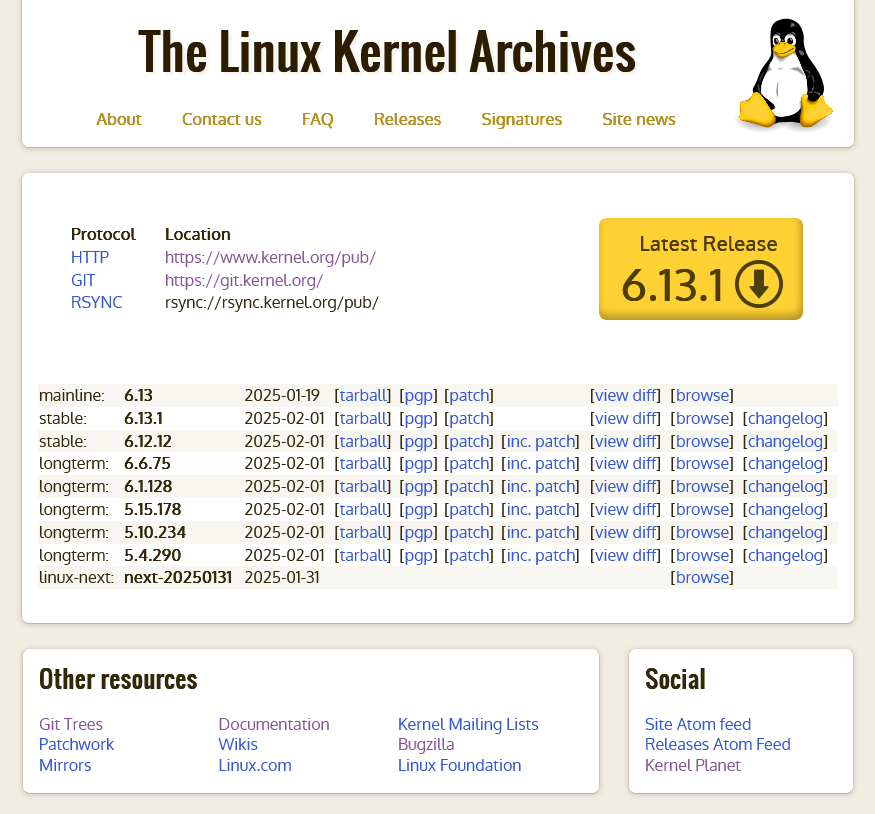
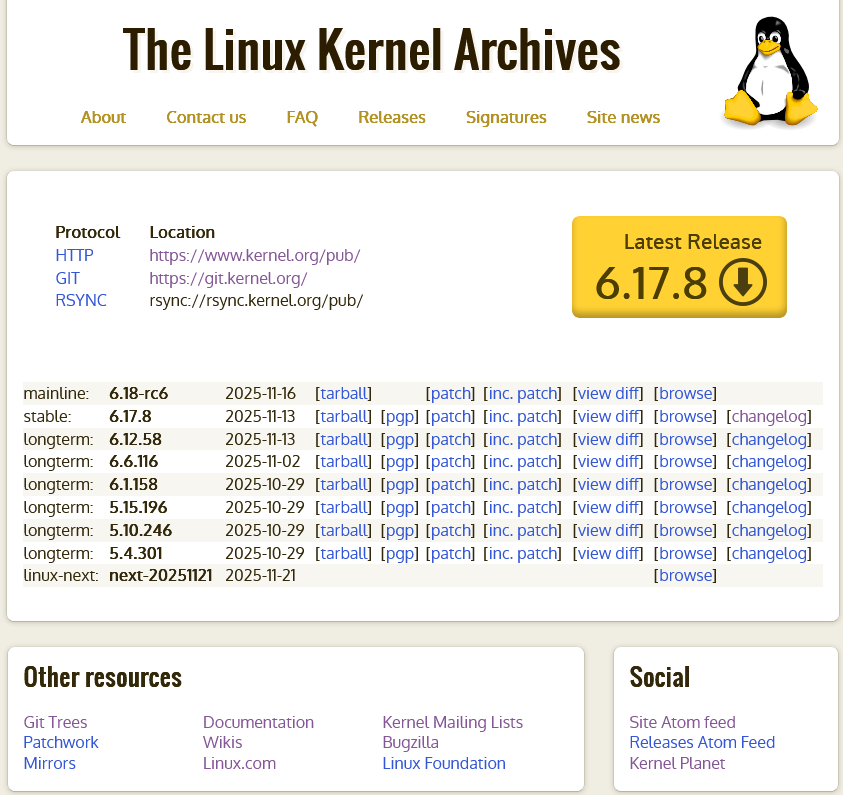
chore: update kernel version

diff --git a/src/ch01-01-env-setup.md b/src/ch01-01-env-setup.md
@@ -41,7 +41,7 @@ Now based on your distribution, install the required packages:
 
 For Debian/Ubuntu based distributions:
 
-```sh
+```bash
 sudo apt install gcc gdb make flex bison \
     libncurses-dev \
     curl wget \
@@ -60,7 +60,7 @@ sudo apt install gcc gdb make flex bison \
 
 For Arch Linux and derivatives (e.g. Endeavour OS, Manjaro):
 
-```sh
+```bash
 sudo pacman -Sy gcc gdb make flex bison \
     ncurses \
     curl wget \
@@ -80,7 +80,7 @@ sudo pacman -Sy gcc gdb make flex bison \
 ## Grabbing our kernel sources
 
 Next, let's grab our linux kernel. Goto <https://www.kernel.org> and right click and copy the link from the
-**big yellow button**. That's the stable release. At the time of writing (2025-02-02) it's `6.13.1`
+**big yellow button**. That's the stable release. At the time of writing (2025-11-21) it's `6.17.8`
 
 <p align="center">
 <img src="./img/kernel-org.png" alt="kernel-org" width="800"/>
@@ -88,15 +88,18 @@ Next, let's grab our linux kernel. Goto <https://www.kernel.org> and right click
 
 Download it to your workspace with `wget`. Then extract with `tar`
 
-```
-mkdir -p ~/source/workspace-000
-cd ~/source/workspace-000
+```bash
+#/bin/bash
 
-wget "https://cdn.kernel.org/pub/linux/kernel/v6.x/linux-6.13.1.tar.xz"
+VERSION="6.17.8"
+mkdir kernel-workspace
+pushd kernel-workspace
 
-tar xf linux-6.13.1.tar.xz
-rm linux-6.13.1.tar.xz
-cd linux-6.13.1
+wget "https://cdn.kernel.org/pub/linux/kernel/v6.x/linux-${VERSION}.tar.xz"
+
+tar xf linux-${VERSION}.tar.xz
+rm linux-${VERSION}.tar.xz
+pushd linux-${VERSION}
 ```
 
 You may need to update the download link, archive name and folder name for the commands.

diff --git a/src/title-page.md b/src/title-page.md
@@ -13,8 +13,5 @@ by [Arindam Das](https://github.com/arindas)
 > New Linux kernel features like `eBPF`, `io_uring` and `SCHED_EXT` are also given
 > special emphasis - we go into detail on asynchronous IO with `io_uring`, SDN and
 > tracing with `eBPF` and custom schedulers with `SCHED_EXT`.
->
-> To ensure that the user knows how to apply the concepts discussed, we pair small
-> projects with each chapter, so that the user can follow along.
 
 This book is distributed under the PLACEHOLDER License. See PLACEHOLDER for more details.
